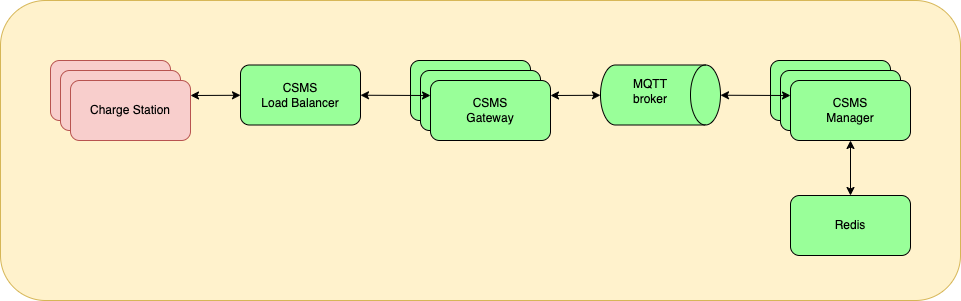
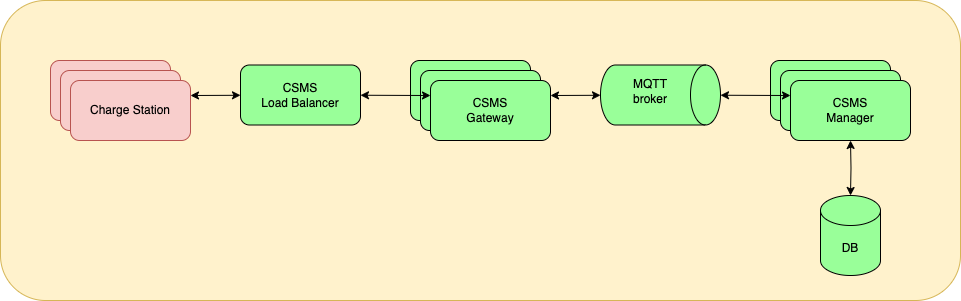
docs: update for persistence changes

Changed region(s): [[0.8117, 0.6279, 0.9677, 0.9269]]

diff --git a/docs/manager.md b/docs/manager.md
@@ -19,23 +19,23 @@ for creating the handler instances and providing them with their dependencies.
 
 All integration points are decoupled from the OCPP handlers and provided to the handler as dependencies. At present 
 the following integration points are used:
-* [CertificateSignerService](../manager/services/certificate_signer.go): provides support for signing the TLS
+* [services.CertificateSignerService](../manager/services/certificate_signer.go): provides support for signing the TLS
 certificates used by charge stations (for either the V2G or CPO interfaces). Current implementation uses Hubject EST
 and assumes the same certificate will be used for both interfaces.
-* [CertificateValidationService](../manager/services/certificate_validation.go): provides support for verifying a
+* [services.CertificateValidationService](../manager/services/certificate_validation.go): provides support for verifying a
 contract certificate chain based on either receiving the chain as a PEM encoded string or via certificate element
 hashes. Current implementation uses an OCSP server to verify that the certificates have not been revoked.
-* [EVCertificateProvider](../manager/services/ev_certificate_provider.go): provides supports for retrieving a contract
+* [services.EVCertificateProvider](../manager/services/ev_certificate_provider.go): provides supports for retrieving a contract
 certificate given an ISO-15118-2 get EV certificate request. Current implementation uses the Hubject contract
 certificate pool.
-* [TariffService](../manager/services/tariff.go): provides support for calculating the cost of a transaction. Current
+* [services.TariffService](../manager/services/tariff.go): provides support for calculating the cost of a transaction. Current
 implementation applies a fixed charge per kWh energy consumed.
-* [TokenStore](../manager/services/token.go): provides support for looking up token details. Current implementation
-uses an in-memory map.
-* [TransactionStore](../manager/services/transaction.go): provides support for storing details of an ongoing
-transaction. Current implementations are either in-memory (N.B. this is not stateless) or use Redis as a store.
+* [store.Engine](../manager/store/engine.go): provides support for persisting various entities. Current implementations
+use either [Firestore](https://firebase.google.com/docs/firestore) or an in-memory store for testing.
 
 There are separate interfaces that a handler implements for handling a call
 (a [CallHandler](../manager/handlers/types.go)) and a call result (a [CallResultHandler](../manager/handlers/types.go)).
 A handler that wants to initiate a call to a charge station can use a [CallMaker](../manager/handlers/types.go)
 to send an OCPP message to a charge station.
+
+The manager has a [RESTful API](../manager/api/api-spec.yaml) that allows the CSMS to be configured.

diff --git a/adr/ADR-004-Datastore.md b/adr/ADR-004-Datastore.md
@@ -1,0 +1,42 @@
+# Datastore
+
+## Status
+
+Accepted
+
+## Context
+
+The CSMS needs a persistent store to store data that is not transient. This includes:
+* Charge station details
+* Tokens
+* Transactions
+
+The datastore is used for the operational state of the CSMS. It is not designed to be used for analytics or reporting.
+The access patterns make it suitable for a wide-variety of NoSQL stores, such as:
+* Firestore
+* MongoDB
+* Cassandra
+* DynamoDB
+
+There is no standard API for writing to these stores.
+
+## Decision
+
+The datastore will be abstracted behind a set of interfaces that allow the CSMS to be written to without knowing the
+specific implementation. This will allow the datastore to be swapped out for a different implementation in the future.
+
+The initial implementations will be:
+* Firestore: the development team currently deploy the CSMS to Google Cloud Platform and Firestore provides a simple
+  and cost-effective datastore that is easy to use.
+* In-memory: this implementation is designed for unit tests and must not be used in production.
+
+## Consequences
+
+* The current implementation must either be run with an in-memory datastore or a Google Cloud Platform project must be
+  created and the Firestore implementation must be used.
+
+### Alternatives considered
+
+SQL databases have a moderately standard API (SQL) that would allow a single implementation to be used across a wide 
+variety of providers. There is nothing that prevents us from implementing a SQL datastore in the future, but NoSQL
+stores provide a more natural fit for the data that we are storing.

diff --git a/adr/ADR-001-TechChoiceForCsms.md b/adr/ADR-001-TechChoiceForCsms.md
@@ -15,13 +15,13 @@ The original purpose of this project was a timeboxed PoC. But after the PoC, whe
 
 ## Decision
 
-We will use Go (golang) for development of this component. The main reason being that the PoC was started in Go due to historical /circumstancial reasons. 
+We will use Go (golang) for development of this component. The main reason being that the PoC was started in Go due to historical / circumstantial reasons. 
 
 ## Consequences
 
 *Advantages*:
 
-* Base code already developped in Go
+* Base code already developed in Go
 * Go scores high in performance and memory footprint
 * Easy for local development; no need for complex build scripts; new developers can get started very quickly.
 

diff --git a/docs/design.md b/docs/design.md
@@ -18,7 +18,7 @@ are disconnected at any specific point.
 There are high-performance MQTT brokers that can process millions of messages per second, so this is not
 expected to be a limiting factor.
 
-The use of Redis to store transaction details enables the manager component to be stateless.
+The use of a database to store state allows the handlers themselves to be stateless.
 
 ![Diagram showing how multiple charge stations can connect to multiple instances of the CSMS gateway via a load balancer and on to multiple instances of the CSMS manager via an MQTT broker](assets/scaling.png)
 

diff --git a/docs/gateway.md b/docs/gateway.md
@@ -40,3 +40,5 @@ There are individual MQTT topics for each charge station:
 
 Where `<prefix>` is a configured prefix for all the topics (defaults to `cs`), `<ocpp-version>` is the
 version of OCPP being used: either `ocpp16` or `ocpp201` and `<cs-id>` is the charge station identifier.
+
+The authentication details for the charge station are read via the [manager](manager.md) API.
